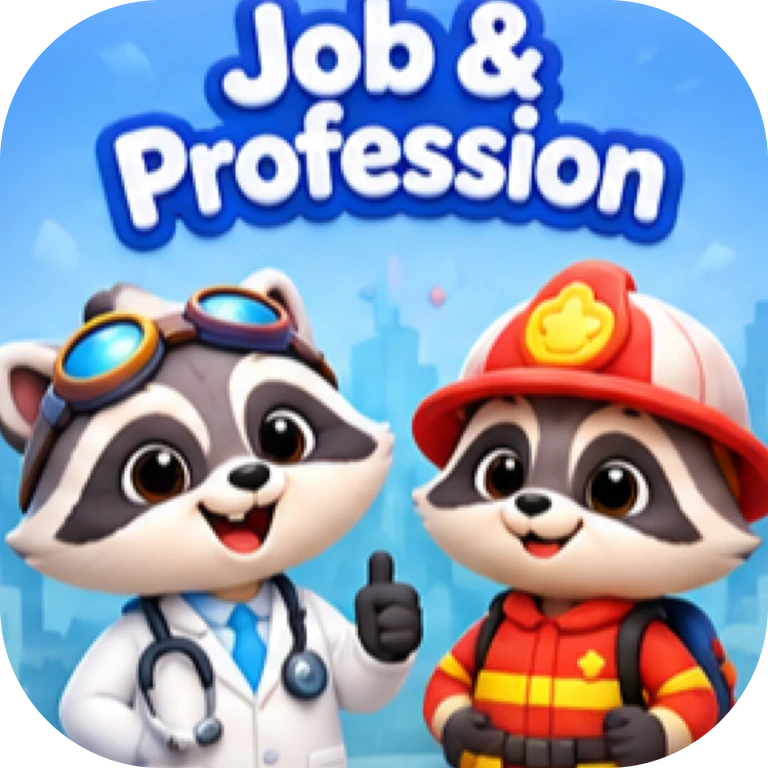
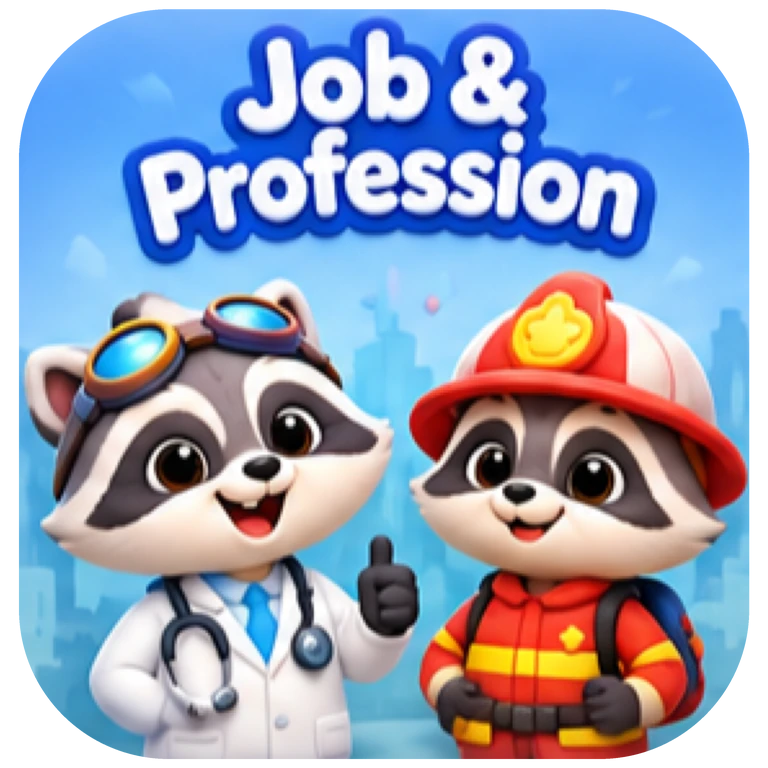
Home tiles: show the whole picture inside a coloured frame
- re-exported without cropping into the artwork (titles at the top such as
  'Little' in Little Money Explorers were cut off); white rim still removed
- each tile is framed: rounded border in the tile's colour with the picture
  slightly smaller inside; hover glow adjusted to the frame
- load all tile pictures immediately (small, precached) – no pop-in

diff --git a/src/core/styles/base.css b/src/core/styles/base.css
@@ -530,14 +530,18 @@ body[data-app='kiddora'] .profile-card.add { color: var(--on-bg); border-color: 
   border: 0; font: inherit; color: inherit; cursor: pointer; justify-content: flex-start; -webkit-tap-highlight-color: transparent;
   transition: transform .18s ease;
 }
+/* framed tile: the picture sits a little smaller inside a rounded border in the tile's colour */
 .module-img {
-  display: block; width: 100%; aspect-ratio: 1; border-radius: 21%; background: var(--tint);
+  display: block; width: 100%; aspect-ratio: 1; box-sizing: border-box; object-fit: contain;
+  padding: 6%; border-radius: 24%;
+  border: 3px solid color-mix(in srgb, var(--tint) 75%, #fff);
+  background: color-mix(in srgb, var(--tint) 22%, rgba(255, 255, 255, .06));
   box-shadow: 0 8px 16px rgba(0, 0, 0, .3);
-  transition: box-shadow .18s ease, filter .18s ease;
+  transition: box-shadow .18s ease, filter .18s ease, border-color .18s ease;
 }
 /* colour glow in the tile's own colour: focus (keyboard), press (touch), hover (mouse only:
    on phones :hover "sticks" to the last tapped tile, so it is limited to real pointers) */
-.module-card.pic { --glow: 0 0 0 4px #fff, 0 0 0 8px var(--tint), 0 0 28px 10px color-mix(in srgb, var(--tint) 70%, transparent); }
+.module-card.pic { --glow: 0 0 0 3px #fff, 0 0 26px 8px color-mix(in srgb, var(--tint) 75%, transparent); }
 .module-card.pic:hover { transform: none; }
 .module-card.pic:focus-visible { transform: translateY(-5px) scale(1.03); box-shadow: none; outline: none; }
 .module-card.pic:active { transform: scale(.97); }

diff --git a/src/core/screens/main.js b/src/core/screens/main.js
@@ -32,7 +32,7 @@ function moduleTile(m, app) {
     : m.subtitle ? tx(m.subtitle) : (m.activities.length > 1 ? t('home.activities', { n: m.activities.length }) : '');
   if (m.image) {
     const body = [
-      el('img.module-img', { src: m.image, alt: '', loading: 'lazy', decoding: 'async', draggable: 'false' }),
+      el('img.module-img', { src: m.image, alt: '', decoding: 'async', draggable: 'false' }),
       m.comingSoon ? el('span.soon-ribbon', { 'aria-hidden': 'true' }, t('home.comingSoon')) : null,
       // The picture already shows the English name; show the title in other languages.
       el('span.module-caption', {}, el(`span.module-title${getLang() === 'en' ? '.sr-only' : ''}`, tx(m.title)), sub ? el('span.module-sub', sub) : null),
